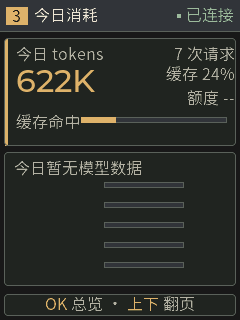
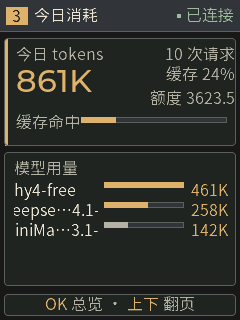
fix(passport): 打通 usage 帧逐模型明细，修「模型用量」空白与额度截断
现象：今日消耗页「模型用量」卡片只有一行「今日暂无模型数据」，下面 5 行
进度条位置全空白，看起来像没渲染完。

根因不在主机。host/wb_app.py 一直在发完整明细（models[].n/v/hit），断点是
wb_proto.c 只取了 cJSON_GetArraySize() 存成一个计数，三个字段从头到尾没读
过；wb_ui.cc 里另有 s_st.usage.n_model = 0 硬编码。于是
wb_state_t.usage.model[] 恒为零，视觉层 5 行循环必然全走 else 分支。
wd_core.h 原注释写着「本轮先留占位」，但占位前提（主机只给数量）本身有误。

- wb_proto.h: WB_USAGE_MODELS / 名称长度 / wb_usage_model_t 从 wd_core.h
  下沉到协议头（容量上限属协议契约），wb_ev_t 加 usage_model[5]
- wb_proto.c: 遍历 models[] 解析 n/v/hit，无名项跳过不占行；新增
  utf8_trim_incomplete()，防 snprintf 按字节截断把汉字切成半个
- wb_biz.h/c: wb_view_t 加同形状数组并 memcpy 转存，日志补打首项名与
  token 数，现场可直接对账
- wb_ui.cc: 删掉 n_model = 0 硬编码，按实际条数搬运并钳制上限
- wb_view.c: 有明细画 5 行；一条没有则整组隐藏，卡片中间改两行居中说明。
  空态文案按 linked 分档（等待主机连接 / 主机正在同步 / 今日暂无 / 主机未
  下发明细），避免出现「页头已连接、正文说连上主机后」的自相矛盾
- wb_view.c: KPI 右侧文本 150/80 -> 136/94。实测额度 3623.50 约需 84px，
  原宽度被 DOTS 截成「额度 362...」；并给 >=10000 加 K 压缩兜底

实机验证 fw 1.3.0-passport / caps 0x43 / 堆 56 KB / 0 error：
- 串口 models=3 首项=hy4-free/461024，三条明细全部解析
- 屏上 hy4-free 461K / deepse…4.1-fl 258K / MiniMa…3.1- 142K，条长比例
  1.00 / 0.56 / 0.31 与数字一致
- 空态：复位后抢在首帧前抓屏，5 行全隐、居中「主机正在同步」
- 额度 3623.5 完整显示，不再截断
- 7 页 6 张回归，画面互异，无重叠/截断

遗留（非本轮引入）：模型名跑马灯。主机截 16 字符，屏上名字区 84px 只放得
下约 10 个 ASCII，必然滚动；加宽到 92px 也只能多放 1 个字符。要静态可读
需让主机为设备单独发 <=10 字符的名字，属改协议，留待后续。

截图 docs/usage_01_empty.png、docs/wd_hub_03_usage.png；文档
docs/KEYMAP_PLAN.md B.8.7。

diff --git a/passport-fw/main/wb/wb_view.c b/passport-fw/main/wb/wb_view.c
@@ -67,6 +67,8 @@ typedef struct {
     lv_obj_t *us_name[WB_USAGE_MODELS];
     lv_obj_t *us_bar[WB_USAGE_MODELS];
     lv_obj_t *us_val[WB_USAGE_MODELS];
+    lv_obj_t *us_empty;              // 空态主提示（居中，替代 5 行空条）
+    lv_obj_t *us_empty2;             // 空态副说明
 
     // 04 关于 / 链路
     wd_badge_t ab_badge;
@@ -488,13 +490,15 @@ static void build_usage(void)
     mk_rect(kpi, 0, 0, 3, 108, WD_PRIMARY);
     mk_text(kpi, "今日 tokens", WD_TEXT_DIM, 11, 6, 96);
     s_ui.us_today = mk_big(kpi, "--", WD_PRIMARY, 11, 24, 120);
-    // 16px 中文下 "126 次请求" 约 72px，原 x=162 w=62 会截成 "次..."；
-    // 左侧大数字占到 x=131，这里从 150 起给 80px，卡内右边界 230 < 232。
-    s_ui.us_req = mk_text_at(kpi, "-- 次请求", WD_TEXT_DIM, 150, 6, 80,
+    // 16px 中文下 "126 次请求" 约 72px，原 x=162 w=62 会截成 "次..."。
+    // 额度实测值可达 3629.8（"额度 3629.8" ≈ 84px），x=150 w=80 会被省略成
+    // "额度 362..."；这里整体左移到 136 给 94px，右边界仍 230 < 232，
+    // 且左侧大数字实际只画到 x≈90（w 只是布局上限），不会撞上。
+    s_ui.us_req = mk_text_at(kpi, "-- 次请求", WD_TEXT_DIM, 136, 6, 94,
                              LV_TEXT_ALIGN_RIGHT);
-    s_ui.us_cache = mk_text_at(kpi, "缓存 --", WD_TEXT_DIM, 150, 26, 80,
+    s_ui.us_cache = mk_text_at(kpi, "缓存 --", WD_TEXT_DIM, 136, 26, 94,
                                LV_TEXT_ALIGN_RIGHT);
-    s_ui.us_quota = mk_text_at(kpi, "额度 --", WD_TEXT_DIM, 150, 50, 80,
+    s_ui.us_quota = mk_text_at(kpi, "额度 --", WD_TEXT_DIM, 136, 50, 94,
                                LV_TEXT_ALIGN_RIGHT);
     mk_text(kpi, "缓存命中", WD_TEXT_DIM, 11, 74, 64);
     s_ui.us_cache_bar = mk_bar(kpi, 76, 78, 146, 6);
@@ -509,6 +513,12 @@ static void build_usage(void)
         s_ui.us_val[i] = mk_text_at(models, "", WD_PRIMARY, 185, y, 38,
                                     LV_TEXT_ALIGN_RIGHT);
     }
+    // 空态占位：5 行隐掉后卡片里会剩一大片空白，改成两行居中说明。
+    // 主提示说「为什么没有」，副提示说「怎么才会有」。
+    s_ui.us_empty = mk_text_at(models, "", WD_TEXT, 0, 58, 232,
+                               LV_TEXT_ALIGN_CENTER);
+    s_ui.us_empty2 = mk_text_at(models, "", WD_TEXT_DIM, 0, 82, 232,
+                                LV_TEXT_ALIGN_CENTER);
 
     mk_footer(WB_VIEW_USAGE, "OK", " 总览 · ", "上下", " 翻页");
 }
@@ -923,8 +933,17 @@ static void refresh_usage(const wb_state_t *st)
     }
     set_text(s_ui.us_cache, buf);
 
-    if (st->credit.valid) snprintf(buf, sizeof(buf), "额度 %.1f", st->credit.remain);
-    else snprintf(buf, sizeof(buf), "额度 --");
+    if (st->credit.valid) {
+        // 额度是积分，可能上万。94px 放得下 "额度 9999.9"（≈84px），
+        // 再大就压成 K，避免又被 DOTS 截成 "额度 123..."。
+        if (st->credit.remain >= 10000.0) {
+            snprintf(buf, sizeof(buf), "额度 %.1fK", st->credit.remain / 1000.0);
+        } else {
+            snprintf(buf, sizeof(buf), "额度 %.1f", st->credit.remain);
+        }
+    } else {
+        snprintf(buf, sizeof(buf), "额度 --");
+    }
     set_text(s_ui.us_quota, buf);
 
     int cache_pct = 0;
@@ -935,12 +954,23 @@ static void refresh_usage(const wb_state_t *st)
     }
     lv_bar_set_value(s_ui.us_cache_bar, cache_pct * 10, LV_ANIM_OFF);
 
+    // ---- 按模型分布：有明细才画行，一条都没有就整块换成空态说明 ----
+    // 以前这里只按 n_model 判空，而协议层从来没填过明细，于是 5 行永远是
+    // 空的、标题变成「今日暂无模型数据」，卡片中间留下 100px 白板。
     int64_t max_tok = 0;
-    for (int i = 0; i < u->n_model; i++) {
-        if (u->model[i].tokens > max_tok) max_tok = u->model[i].tokens;
+    if (u->valid) {
+        for (int i = 0; i < u->n_model && i < WB_USAGE_MODELS; i++) {
+            if (u->model[i].name[0] && u->model[i].tokens > max_tok) {
+                max_tok = u->model[i].tokens;
+            }
+        }
     }
+
+    int n_row = 0;
     for (int i = 0; i < WB_USAGE_MODELS; i++) {
-        if (u->valid && i < u->n_model && u->model[i].name[0]) {
+        const bool show = u->valid && i < u->n_model && u->model[i].name[0];
+        if (show) {
+            n_row++;
             const wb_usage_model_t *m = &u->model[i];
             set_roll(s_ui.us_name[i], m->name);
             fmt_tokens(buf, sizeof(buf), m->tokens);
@@ -959,10 +989,43 @@ static void refresh_usage(const wb_state_t *st)
             set_text(s_ui.us_val[i], "");
             lv_bar_set_value(s_ui.us_bar[i], 0, LV_ANIM_OFF);
         }
+        // 空行必须隐藏：留着 5 条零长轨道，卡片看起来像渲染坏了。
+        lv_obj_t *cell[3] = {s_ui.us_name[i], s_ui.us_bar[i], s_ui.us_val[i]};
+        for (int k = 0; k < 3; k++) {
+            if (!cell[k]) continue;
+            if (show) lv_obj_remove_flag(cell[k], LV_OBJ_FLAG_HIDDEN);
+            else lv_obj_add_flag(cell[k], LV_OBJ_FLAG_HIDDEN);
+        }
     }
-    set_text(s_ui.us_head, (u->valid && u->n_model > 0)
-                               ? "模型用量" : (u->valid ? "今日暂无模型数据"
-                                                        : "等待主机统计"));
+
+    const bool empty = (n_row == 0);
+    if (empty) {
+        const char *hint = "等待主机连接";
+        const char *hint2 = "打开主机端后自动同步";
+        if (u->valid) {
+            if (u->today <= 0) {
+                hint = "今日暂无模型数据";
+                hint2 = "今天还没有请求记录";
+            } else {
+                // 有合计值却没有 models[]：旧版主机只发总量，不编造分项。
+                hint = "主机未下发模型明细";
+                hint2 = "仅显示合计，升级主机后可见";
+            }
+        } else if (st->linked && !st->offline) {
+            // 页头已经显示「已连接」，这里再说「连上主机后」就自相矛盾了：
+            // 链路是通的，只是 30s 一跳的 usage 帧还没到（刚上电的常态）。
+            hint = "主机正在同步";
+            hint2 = "首次数据约 30 秒内到达";
+        }
+        set_text(s_ui.us_empty, hint);
+        set_text(s_ui.us_empty2, hint2);
+    }
+    lv_obj_t *ghost[2] = {s_ui.us_empty, s_ui.us_empty2};
+    for (int k = 0; k < 2; k++) {
+        if (!ghost[k]) continue;
+        if (empty) lv_obj_remove_flag(ghost[k], LV_OBJ_FLAG_HIDDEN);
+        else lv_obj_add_flag(ghost[k], LV_OBJ_FLAG_HIDDEN);
+    }
 }
 
 static void refresh_about(const wb_state_t *st)

diff --git a/passport-fw/main/wb/wb_proto.c b/passport-fw/main/wb/wb_proto.c
@@ -16,6 +16,28 @@ static void copy_str(const cJSON *item, char *out, size_t cap)
     snprintf(out, cap, "%s", item->valuestring);
 }
 
+// snprintf 按**字节**截断，会把多字节 UTF-8 字符切成半个。
+// LVGL 拿到非法序列会画出方块或直接吞掉整行，比截短更难排查。
+// 这里只做一件事：若结尾那个字符不完整，就把它整个砍掉。
+static void utf8_trim_incomplete(char *s)
+{
+    if (!s) return;
+    const size_t n = strlen(s);
+    if (n == 0) return;
+
+    size_t i = n;                                  // 跳到最后一个字符的首字节
+    while (i > 0 && ((unsigned char)s[i - 1] & 0xC0) == 0x80) i--;
+    if (i == 0) { s[0] = '\0'; return; }            // 全是续字节，整串作废
+
+    const unsigned char lead = (unsigned char)s[i - 1];
+    size_t need = 1;
+    if (lead >= 0xF0) need = 4;
+    else if (lead >= 0xE0) need = 3;
+    else if (lead >= 0xC0) need = 2;
+
+    if (n - (i - 1) < need) s[i - 1] = '\0';        // 尾部字符被截断，丢掉
+}
+
 static int json_int(const cJSON *root, const char *key, int def)
 {
     const cJSON *it = cJSON_GetObjectItemCaseSensitive(root, key);
@@ -104,7 +126,28 @@ bool wb_proto_decode(const char *frame, size_t len, wb_ev_t *ev)
             ev->usage_cache = json_double(root, "cache", 0.0);
             ev->usage_req = json_int(root, "req", 0);
             const cJSON *models = cJSON_GetObjectItemCaseSensitive(root, "models");
-            ev->usage_models = cJSON_IsArray(models) ? cJSON_GetArraySize(models) : 0;
+            // models[] 形如 [{"n":"deepseek-v4.1-f…","v":123456,"hit":789}, ...]
+            // 主机 wb_app.py 已按用量降序、最多 5 项（TOP4 + 「其它」），
+            // 名字也按 16 字符预截断；这里只做容量兜底，不重排。
+            // 以前这里只取 cJSON_GetArraySize()，名字与 token 数全丢，
+            // 「模型用量」卡片的 5 行进度条因此永远是空的。
+            ev->usage_models = 0;
+            if (cJSON_IsArray(models)) {
+                const cJSON *it = NULL;
+                cJSON_ArrayForEach(it, models) {
+                    if (ev->usage_models >= WB_USAGE_MODELS) break;
+                    if (!cJSON_IsObject(it)) continue;
+                    wb_usage_model_t *m = &ev->usage_model[ev->usage_models];
+                    copy_str(cJSON_GetObjectItemCaseSensitive(it, "n"),
+                             m->name, sizeof(m->name));
+                    utf8_trim_incomplete(m->name);
+                    // 没名字的行直接跳过：宁可少一行，也不要一条无标签空条。
+                    if (m->name[0] == '\0') continue;
+                    m->tokens = json_i64(it, "v", 0);
+                    m->cached = json_i64(it, "hit", 0);
+                    ev->usage_models++;
+                }
+            }
         } else if (cJSON_GetObjectItemCaseSensitive(root, "host")) {
             // Web 大盘的主机侧信息：status_list 已 488B 塞不下，走独立小帧。
             ev->type = WB_EV_HOST;

diff --git a/passport-fw/main/wb/wb_ui.cc b/passport-fw/main/wb/wb_ui.cc
@@ -6,9 +6,11 @@
 //   2. 把三键映射到「前 4 页 ↑↓ 轮转 + 审批/提问事件页 + 待机覆盖」；
 //   3. 维持 wb_ui.h 的对外 API 不变，app_wb.cc 一行不用改。
 //
-// 本轮按约定「只移植已有实现」：主机端协议未提供的字段（逐模型用量明细、
-// 最近事件、下行帧数、审批倒计时）留占位，界面会显示「暂无数据」类文案，
-// 不伪造数字。协议扩展、离线/低电覆盖页留待后续。
+// 本轮按约定「只移植已有实现」：主机端协议未提供的字段（最近事件、下行帧数、
+// 审批倒计时）留占位，界面会显示「暂无数据」类文案，不伪造数字。
+// 逐模型用量明细原先也在占位之列，现已打通（usage 帧 models[].n/v/hit →
+// wb_proto → wb_biz → wb_state_t.usage.model[]），不在本层编造任何值。
+// 离线/低电覆盖页仍留待后续。
 //
 // 旧 V2 实现（1596 行、10 屏预创建 + 共享 chrome）备份在
 // passport-fw/.tmp/ui-rewrite-20261105/wb_ui_legacy.cc。
@@ -101,13 +103,22 @@ void adapt(const wb_view_t *v, bool standby)
     s_st.clock_local_s = v->clock_s;
     s_st.clock_sync_ms = now_ms();
 
-    // usage 帧只有合计值，没有逐模型明细：n_model=0 让今日消耗页显示
-    // 「今日暂无模型数据」，不编造 5 行进度条。
+    // usage 帧：合计值 + 逐模型明细都要搬过去。明细以前被协议层丢掉了
+    // （只留数组长度），屏幕上 5 行进度条因此永远是空的。
     s_st.usage.valid = v->have_usage;
     s_st.usage.today = (int64_t)v->usage_today;
     s_st.usage.req = v->usage_req;
     s_st.usage.cached = (int64_t)v->usage_cache;
-    s_st.usage.n_model = 0;
+    int n_model = v->usage_models;
+    if (n_model > WB_USAGE_MODELS) n_model = WB_USAGE_MODELS;
+    if (n_model < 0) n_model = 0;
+    s_st.usage.n_model = n_model;
+    for (int i = 0; i < n_model; ++i) {
+        copy_str(s_st.usage.model[i].name, sizeof(s_st.usage.model[i].name),
+                 v->usage_model[i].name);
+        s_st.usage.model[i].tokens = v->usage_model[i].tokens;
+        s_st.usage.model[i].cached = v->usage_model[i].cached;
+    }
 
     s_st.beep_vol = v->beep_vol;
     s_st.skin = 1;

diff --git a/passport-fw/main/wb/wb_proto.h b/passport-fw/main/wb/wb_proto.h
@@ -27,6 +27,19 @@ extern "C" {
 #define WB_FW_VERSION    "1.3.0-passport"
 #define WB_PROTO_VERSION 2
 
+// usage 帧的逐模型明细。主机端 wb_app.py 的 USAGE_MODELS_MAX 也是 5
+// （TOP4 + 合并后的「其它」占第 5 行），两边必须同值，否则末尾会被丢。
+// 名字长度 20 是**字节**：主机按 16 个**字符**预截断，纯 ASCII 只需 17B，
+// 留 3B 冗余；万一上游混入汉字，parsing 侧会按 UTF-8 边界回退，不切半个字。
+#define WB_USAGE_MODELS   5
+#define WB_USAGE_NAME_LEN 20
+
+typedef struct {
+    char name[WB_USAGE_NAME_LEN];
+    int64_t tokens;
+    int64_t cached;
+} wb_usage_model_t;
+
 // 能力位：本工程只做看板 + 审批 + 提问（与 S3 看板固件同一口径）。
 // bit6 = 主机大盘：设备能解析 usage / host 帧。主机只在声明该位时推 host 帧，
 // 旧固件（caps=0x3）不会收到不认识的帧而回 ERR_JSON。
@@ -91,6 +104,9 @@ typedef struct {
     double usage_cache;
     int usage_req;
     int usage_models;
+    /* models[] 的逐模型明细（主机字段 n / v / hit）。以前只取数组长度，
+     * 屏幕上 5 行进度条永远是空的 —— 「模型用量」卡片因此全白。 */
+    wb_usage_model_t usage_model[WB_USAGE_MODELS];
 
     /* host 帧：Web 大盘里主机侧独有的信息（status_list 帧已 488B，塞不下）。 */
     int gw_ports;

diff --git a/passport-fw/main/wb/wb_biz.c b/passport-fw/main/wb/wb_biz.c
@@ -203,10 +203,13 @@ static void handle_frame(const wb_frame_msg_t *msg)
         s_view.usage_cache = ev.usage_cache;
         s_view.usage_req = ev.usage_req;
         s_view.usage_models = ev.usage_models;
+        memcpy(s_view.usage_model, ev.usage_model, sizeof(s_view.usage_model));
         s_view.have_usage = true;
         changed = true;
-        ESP_LOGI(TAG, "大盘用量 today=%lld req=%d models=%d",
-                 (long long)ev.usage_today, ev.usage_req, ev.usage_models);
+        ESP_LOGI(TAG, "大盘用量 today=%lld req=%d models=%d 首项=%s/%lld",
+                 (long long)ev.usage_today, ev.usage_req, ev.usage_models,
+                 ev.usage_models > 0 ? ev.usage_model[0].name : "-",
+                 ev.usage_models > 0 ? (long long)ev.usage_model[0].tokens : 0LL);
         break;
     case WB_EV_HOST:
         s_view.gw_ports = ev.gw_ports;

diff --git a/passport-fw/main/wb/wd_core.h b/passport-fw/main/wb/wd_core.h
@@ -20,17 +20,9 @@ extern "C" {
 #endif
 
 // ---- 今日消耗页：按模型分布（规范 §6.3，最多 5 行）----
-// 当前主机端 usage 帧只给了 models 的**数量**，没有逐模型 token 明细。
-// 本轮按约定先留占位（valid=false / n_model=0），协议扩展后续再补。
-#define WB_USAGE_MODELS   5
-#define WB_USAGE_NAME_LEN 20
-
-typedef struct {
-    char name[WB_USAGE_NAME_LEN];
-    int64_t tokens;
-    int64_t cached;
-} wb_usage_model_t;
-
+// WB_USAGE_MODELS / WB_USAGE_NAME_LEN / wb_usage_model_t 已下沉到 wb_proto.h
+// （那是协议契约的一部分：主机 models[] 的容量上限）。本文件 include 它即可，
+// 不再重复定义，否则会与协议头冲突。
 typedef struct {
     bool valid;
     int64_t today;

diff --git a/passport-fw/main/wb/wb_biz.h b/passport-fw/main/wb/wb_biz.h
@@ -59,7 +59,8 @@ typedef struct {
     double usage_today;
     double usage_cache;
     int usage_req;
-    int usage_models;
+    int usage_models;      // usage_model[] 里有效条数（已剔除无名项）
+    wb_usage_model_t usage_model[WB_USAGE_MODELS];
     bool have_host;
     int gw_ports;
     int gw_sessions;

diff --git a/docs/KEYMAP_PLAN.md b/docs/KEYMAP_PLAN.md
@@ -545,7 +545,7 @@ y=274 三键栏：UP/DOWN 移动 | OK 进入 | 长按DOWN 关闭
 
 | 级别 | 项 |
 |---|---|
-| P1 | 今日消耗页 5 行模型用量显示「等待主机统计」—— 需扩 `usage` 帧带逐模型 token 明细 |
+| ~~P1~~ | ~~今日消耗页 5 行模型用量显示「等待主机统计」—— 需扩 `usage` 帧带逐模型 token 明细~~ **已完成，见 B.8.7**（主机端本来就有明细，是固件解析层丢了） |
 | P1 | 「关于 / 链路」的最近事件 / 下行帧数仍是 `—` / `0 帧`；可把 `host` 帧的网关、连接时长接进来 |
 | P1 | 「能力」行仍写「审批 / 提问」，未反映 `caps=0x43`；且 bit6 与另一工程 `WB_CAP_PROFILE` 语义冲突，两条固件线需统一 |
 | P1 | 离线 / 低电无覆盖页（目前只有页头红色「离线」徽标）；声音设置随菜单删除后不可达 |
@@ -593,3 +593,68 @@ y=274 三键栏：UP/DOWN 移动 | OK 进入 | 长按DOWN 关闭
 「已下发（成功）」**，帧实际送不到设备 —— 必须等链路稳定再发，且不要因为
 返回值 false 去重试（重试会连发多道题，把设备反复打回第 1 项）。② 主机对
 同一道题每 30s 保活重推，重推会把设备游标重置为 0，长序列验证要分段。
+
+### B.8.7 今日消耗页：模型明细为空（2026-11-05 23:10 修，当日实机通过）
+
+**现象**：今日消耗页「模型用量」卡片只有一行小标题「今日暂无模型数据」，
+下面 5 行进度条位置一片空白，卡片像没渲染完。
+
+**根因不在主机**。主机 `host/wb_app.py` 一直在发完整明细：
+
+```json
+{"usage":1,"today":860898,"req":10,"cache":...,
+ "models":[{"n":"hy4-free","v":461024,"hit":...}, ...]}
+```
+
+断点在固件解析层 —— `wb_proto.c` 只取了 `cJSON_GetArraySize(models)` 存成
+`usage_models`（一个计数），**`n` / `v` / `hit` 三个字段从头到尾没读过**。
+于是 `wb_state_t.usage.model[]` 永远是全零，`wb_ui.cc` 里还有一行硬编码
+`s_st.usage.n_model = 0`，视觉层的 5 行循环必然全部走 else 分支。
+
+当时是**有意留的占位**（`wd_core.h` 注释写着「本轮按约定先留占位」），
+但占位的前提「主机端只给数量」与实际不符，所以一直没暴露。
+
+**修法**（打通数据 + 空态兜底，主机端一行未改）：
+
+| 层 | 文件 | 改动 |
+|---|---|---|
+| 协议 | `wb_proto.h` | `WB_USAGE_MODELS` / `WB_USAGE_NAME_LEN` / `wb_usage_model_t` 从 `wd_core.h` **下沉**到协议头（容量上限属于协议契约）；`wb_ev_t` 加 `usage_model[5]` |
+| 协议 | `wb_proto.c` | 遍历 `models[]` 读 `n`/`v`/`hit`；无名项跳过不占行；新增 `utf8_trim_incomplete()` 防止 `snprintf` 按字节截断把汉字切成半个 |
+| 业务 | `wb_biz.h` / `wb_biz.c` | `wb_view_t` 加同形状数组，`memcpy` 转存；日志补打首项名与 token 数便于现场对账 |
+| 适配 | `wb_ui.cc` | 删掉 `n_model = 0` 硬编码，按 `usage_models` 逐项搬运并钳制上限 |
+| 视觉 | `wb_view.c` | 有明细画 5 行；一条都没有则整组隐藏，卡片中间改两行居中说明 |
+
+**空态文案按链路状态分档**，避免和页头「已连接」自相矛盾
+（初次实现写的是「连上主机后每 30 秒同步」，但页头已显示已连接）：
+
+| 条件 | 主提示 | 副提示 |
+|---|---|---|
+| `!valid && !linked` | 等待主机连接 | 打开主机端后自动同步 |
+| `!valid && linked` | 主机正在同步 | 首次数据约 30 秒内到达 |
+| `valid && today <= 0` | 今日暂无模型数据 | 今天还没有请求记录 |
+| `valid && today > 0 && n_model == 0` | 主机未下发模型明细 | 仅显示合计，升级主机后可见 |
+
+最后一条是给旧主机的兜底：有合计却没有 `models[]` 时不编造分项。
+
+**顺手修的 P1**：KPI 卡右侧三行的文本框 150/80 装不下 `额度 3629.8`（实测值
+3623.50，约需 84px），被 DOTS 截成 `额度 362...`。整体左移到 136/94，并给
+≥10000 加 K 压缩兜底。左侧大数字实际只画到 x≈90（`w=120` 只是布局上限），
+不会撞上。
+
+**实机验证**（`fw 1.3.0-passport`，0 error / 堆 56 KB 不变）：
+
+| 场景 | 结果 |
+|---|---|
+| 串口日志 | `大盘用量 today=860898 req=10 models=3 首项=hy4-free/461024` —— 3 条明细全部解析 |
+| 满数据态 | `hy4-free 461K` / `deepse…4.1-fl 258K` / `MiniMa…3.1- 142K`，条长比例 1.00 / 0.56 / 0.31 与数字一致 |
+| 空态 | 复位后抢在首帧前抓屏：5 行全隐，居中「主机正在同步 / 首次数据约 30 秒内到达」 |
+| 额度 | `额度 3623.5` 完整显示，不再出现 `362...` |
+| 回归 | 7 页 6 张全抓，画面互异，无重叠/截断 |
+
+截图归档：`docs/usage_01_empty.png`（空态）、`docs/wd_hub_03_usage.png`（满数据）。
+
+**遗留（非本轮引入）**：模型名跑马灯。主机端把名字截到 16 **字符**，而屏上
+名字区只有 84px（≈10 个 ASCII），必然滚动，静态截图会抓到循环接缝
+（`eepse…4.1-`）。加宽到 92px 也只能多放 1 个字符，无法根治 —— 240px 宽的
+屏装不下「名字 + 条 + 数字」三者。要彻底静态可读，只能让主机端为设备单独发
+更短的名字（≤10 字符），需改协议，留待后续。
